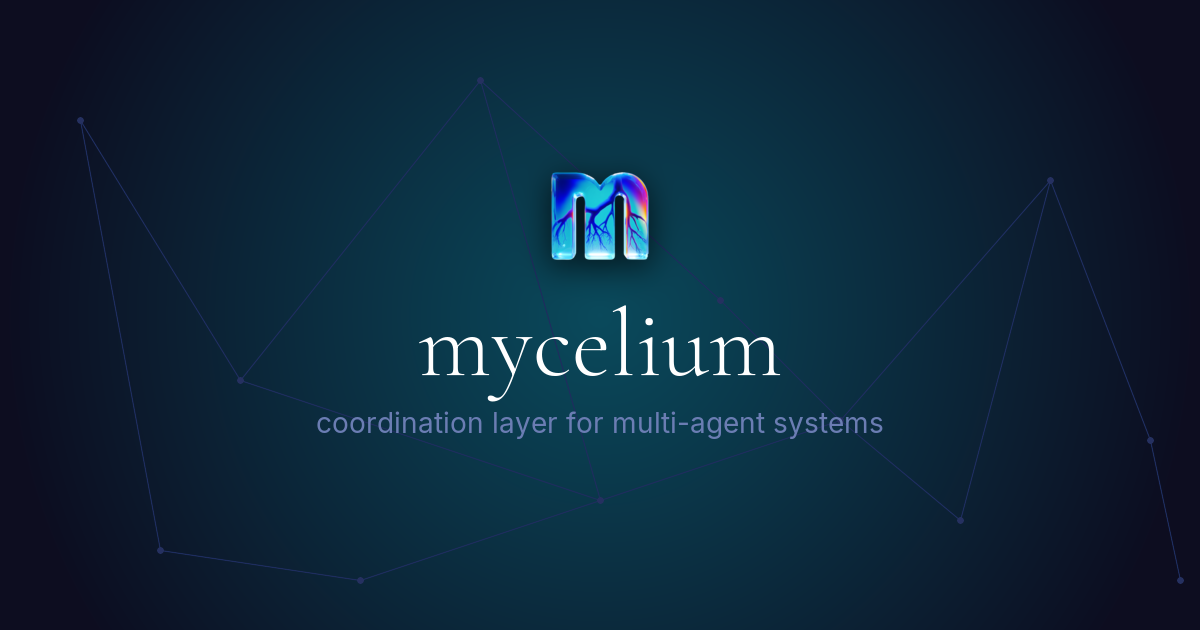
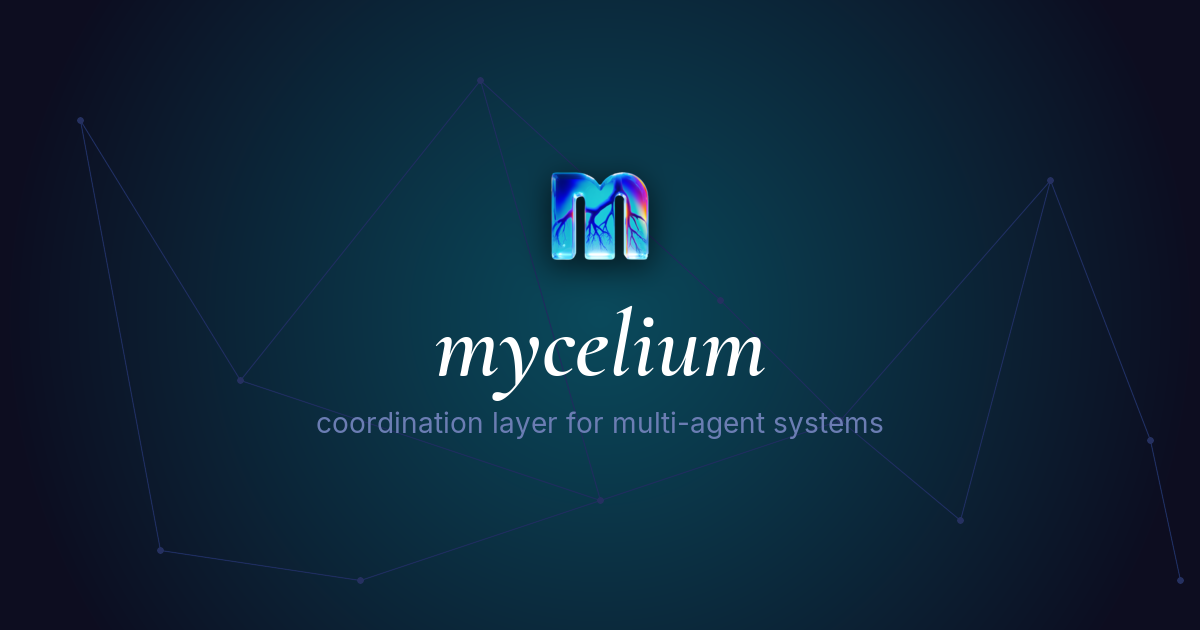
Use Cormorant Garamond SemiBold Italic on landing page

Changed region(s): [[0.3392, 0.4825, 0.6475, 0.6333]]

diff --git a/index.html b/index.html
@@ -12,7 +12,7 @@
 <meta name="twitter:card" content="summary_large_image">
 <meta name="twitter:image" content="https://mycelium-io.github.io/og.png">
 <link rel="preconnect" href="https://fonts.googleapis.com">
-<link href="https://fonts.googleapis.com/css2?family=Cormorant+Garamond:wght@700&display=swap" rel="stylesheet">
+<link href="https://fonts.googleapis.com/css2?family=Cormorant+Garamond:ital,wght@1,600&display=swap" rel="stylesheet">
 <style>
   :root {
     --bg: #05090f;
@@ -65,7 +65,8 @@
 
   h1 {
     font-size: clamp(36px, 7vw, 58px);
-    font-weight: 800;
+    font-weight: 600;
+    font-style: italic;
     line-height: 1.05;
     letter-spacing: -0.02em;
     margin-bottom: 8px;
